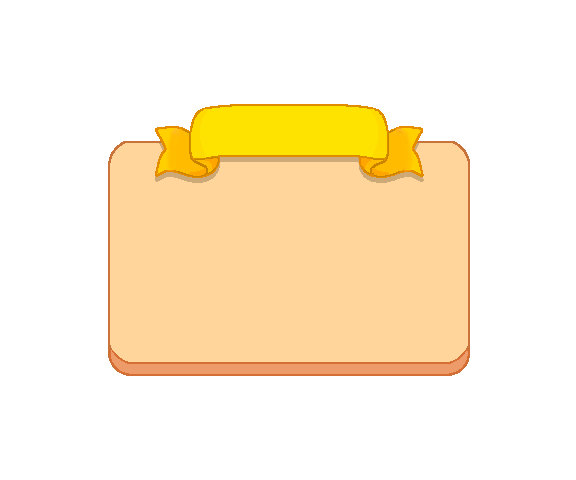
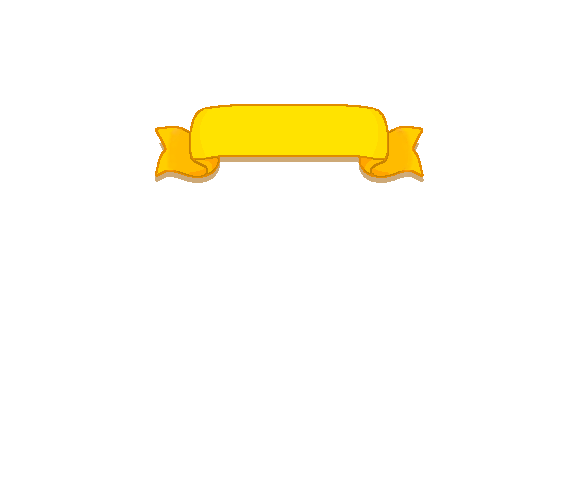
Update FishingFrame, fix some error in sell_Trading

Changed region(s): [[0.1875, 0.2812, 0.8438, 0.7812]]

diff --git a/src/Main/UI.java b/src/Main/UI.java
@@ -861,50 +861,62 @@ public class UI {
     }
 
     public void drawAfterFishingScreen() {
-        drawFishingBackGround();
         drawFishingCaughtAndInformation();
     }
-
-    public void drawFishingBackGround() {
-        g2.drawImage(fishFrame, gp.tileSize, -2 * gp.tileSize, gp.tileSize * 18, gp.tileSize * 15, null);//0xFFBB5B FFAD7A
-    //    drawSubWindow1(-5+gp.tileSize*19/2,-5+gp.tileSize*21/4,10+gp.tileSize*11/2,10+gp.tileSize*5/2,new Color(0,0,0,0),new Color(0xFFFFFF),2,10); ed9b68
-    //    drawSubWindow1(-10+gp.tileSize*9/2,-10+gp.tileSize*5/2,20+gp.tileSize*11,gp.tileSize*15/2,new Color(0xe078ff),new Color(0x9D57A6),5,70);
-    //    drawSubWindow1(-10+gp.tileSize*9/2,-10+gp.tileSize*5/2,20+gp.tileSize*11,gp.tileSize*285/40,new Color(0xffd59b),new Color(0x9D57A6),5,70);
-        drawSubWindow1(gp.tileSize*19/2,gp.tileSize*21/4,gp.tileSize*11/2,gp.tileSize*3,new Color(0xFFBB5B),new Color(0xFFBB5B),0,0);
-    }
-
     public void drawFishingCaughtAndInformation() {
-        //draw image of fish caught
-        g2.drawImage(fishImage, 6 * gp.tileSize, gp.tileSize * 9 / 2, gp.tileSize * 5 / 2, gp.tileSize * 5 / 2, null);
-        drawSubWindow1 (-10 + 6 * gp.tileSize, -10 + gp.tileSize * 9 / 2, 15 + gp.tileSize * 5 / 2, 15 + gp.tileSize * 5 / 2, new Color(0, 0, 0, 0), new Color(0xD69489), 7, 20);
         //display fish information
         //Rarity
         switch (fishRarity) {
             case "LEGENDARY":
+                drawSubWindow1(-10+gp.tileSize*9/2,-10+gp.tileSize*5/2,20+gp.tileSize*11,gp.tileSize*15/2,new Color(0xf8b347),new Color(0xe58b00),5,70);
+                drawSubWindow1(-10+gp.tileSize*9/2,-10+gp.tileSize*5/2,20+gp.tileSize*11,gp.tileSize*285/40,new Color(0xffd99e),new Color(0xe58b00),5,70);
+                g2.drawImage(fishFrame, gp.tileSize, -2 * gp.tileSize, gp.tileSize * 18, gp.tileSize * 15, null);
+                drawSubWindow1(gp.tileSize*19/2,gp.tileSize*21/4,gp.tileSize*11/2,gp.tileSize*3,new Color(0xffcb81),new Color(0xffcb81),0,50);
+
                 setFontAndColor(font, Color.BLACK);
                 g2.drawString(fishRarity, getXforCenteredText(fishRarity), gp.tileSize * 5 / 2);
                 setFontAndColor(font, new Color(0xFF7F3E));
                 g2.drawString(fishRarity, -2 + getXforCenteredText(fishRarity), -2 + gp.tileSize * 5 / 2);
                 break;
             case "RARE":
+                drawSubWindow1(-10+gp.tileSize*9/2,-10+gp.tileSize*5/2,20+gp.tileSize*11,gp.tileSize*15/2,new Color(0xb386ef),new Color(0x965fde),5,70);
+                drawSubWindow1(-10+gp.tileSize*9/2,-10+gp.tileSize*5/2,20+gp.tileSize*11,gp.tileSize*285/40,new Color(0xddc3ff),new Color(0x965fde),5,70);
+                g2.drawImage(fishFrame, gp.tileSize, -2 * gp.tileSize, gp.tileSize * 18, gp.tileSize * 15, null);
+                drawSubWindow1(gp.tileSize*19/2,gp.tileSize*21/4,gp.tileSize*11/2,gp.tileSize*3,new Color(0xcea9ff),new Color(0xcea9ff),0,50);
+
                 setFontAndColor(font, Color.WHITE);
                 g2.drawString(fishRarity, getXforCenteredText(fishRarity), gp.tileSize * 5 / 2);
                 setFontAndColor(font, new Color(0x810081));
                 g2.drawString(fishRarity, -2 + getXforCenteredText(fishRarity), -2 + gp.tileSize * 5 / 2);
                 break;
             case "UNCOMMON":
+                drawSubWindow1(-10+gp.tileSize*9/2,-10+gp.tileSize*5/2,20+gp.tileSize*11,gp.tileSize*15/2,new Color(0x5099f9),new Color(0x447dc8),5,70);
+                drawSubWindow1(-10+gp.tileSize*9/2,-10+gp.tileSize*5/2,20+gp.tileSize*11,gp.tileSize*285/40,new Color(0xaee6ff),new Color(0x447dc8),5,70);
+                g2.drawImage(fishFrame, gp.tileSize, -2 * gp.tileSize, gp.tileSize * 18, gp.tileSize * 15, null);
+                drawSubWindow1(gp.tileSize*19/2,gp.tileSize*21/4,gp.tileSize*11/2,gp.tileSize*3,new Color(0x82d3f8),new Color(0x82d3f8),0,50);
+
                 setFontAndColor(font, new Color(0xFFFFFF));
                 g2.drawString(fishRarity, getXforCenteredText(fishRarity), gp.tileSize * 5 / 2);
                 setFontAndColor(font, new Color(0x0239BD));
                 g2.drawString(fishRarity, -2 + getXforCenteredText(fishRarity), -2 + gp.tileSize * 5 / 2);
                 break;
             case "COMMON":
+                drawSubWindow1(-10+gp.tileSize*9/2,-10+gp.tileSize*5/2,20+gp.tileSize*11,gp.tileSize*15/2,new Color(0x7fba53),new Color(0x5e9c31),5,70);
+                drawSubWindow1(-10+gp.tileSize*9/2,-10+gp.tileSize*5/2,20+gp.tileSize*11,gp.tileSize*285/40,new Color(0xd0fab3),new Color(0x5e9c31),5,70);
+                g2.drawImage(fishFrame, gp.tileSize, -2 * gp.tileSize, gp.tileSize * 18, gp.tileSize * 15, null);
+                drawSubWindow1(gp.tileSize*19/2,gp.tileSize*21/4,gp.tileSize*11/2,gp.tileSize*3,new Color(0xbaf88e),new Color(0xbaf88e),0,50);
+
                 setFontAndColor(font, new Color(0xFFFFFF));
                 g2.drawString(fishRarity, getXforCenteredText(fishRarity), gp.tileSize * 5 / 2);
                 setFontAndColor(font, new Color(0x448713));
                 g2.drawString(fishRarity, -2 + getXforCenteredText(fishRarity), -2 + gp.tileSize * 5 / 2);
                 break;
             case "TRASH":
+                drawSubWindow1(-10+gp.tileSize*9/2,-10+gp.tileSize*5/2,20+gp.tileSize*11,gp.tileSize*15/2,new Color(0xb9b7b7),new Color(0xe7d7d7d),5,70);
+                drawSubWindow1(-10+gp.tileSize*9/2,-10+gp.tileSize*5/2,20+gp.tileSize*11,gp.tileSize*285/40,new Color(0xe8e8e8),new Color(0x7d7d7d),5,70);
+                g2.drawImage(fishFrame, gp.tileSize, -2 * gp.tileSize, gp.tileSize * 18, gp.tileSize * 15, null);
+                drawSubWindow1(gp.tileSize*19/2,gp.tileSize*21/4,gp.tileSize*11/2,gp.tileSize*3,new Color(0xd7d5d5),new Color(0xd7d5d5),0,50);
+
                 setFontAndColor(font, new Color(0xFFFFFF));
                 g2.drawString(fishRarity, getXforCenteredText(fishRarity), gp.tileSize * 5 / 2);
                 setFontAndColor(font, new Color(0x434343));
@@ -924,12 +936,14 @@ public class UI {
         //Description
         y = gp.tileSize * 6;
         x =  gp.tileSize * 10;
-
         setFontAndColor(font4a,new Color(0x7B342E));
         for(String line: desFishing.split("\n")){
             g2.drawString(line, x, y);
             y += 32;
         }
+        //draw image of fish caught
+        g2.drawImage(fishImage, 6 * gp.tileSize, gp.tileSize * 9 / 2, gp.tileSize * 5 / 2, gp.tileSize * 5 / 2, null);
+        drawSubWindow1 ( 6 * gp.tileSize,  gp.tileSize * 9 / 2, gp.tileSize * 5 / 2, gp.tileSize * 5 / 2, new Color(0, 0, 0, 0), new Color(0xD69489), 7, 20);
     }
 
 
@@ -1056,25 +1070,11 @@ public class UI {
 
 
             //Description Text
-            int textX = dFrameX + 20;
-            int textY = dFrameY + gp.tileSize * 3/4;
             g2.setFont(g2.getFont().deriveFont(28F));
-
             int itemIndex = getItemIndexOnSlot(slotCol, slotRow);
-
 
             if(itemIndex < entity.inventory.size()){
                 drawSubWindow(dFrameX,dFrameY,dFrameWidth,dFrameHeight);
-                setFontAndColor(font4,Color.WHITE);
-                g2.drawString(fishName,textX,textY);
-                textY += 30;
-                setFontAndColor(font3a,Color.WHITE);
-                for(String line: entity.inventory.get(itemIndex).desTrading.split("\n")){
-
-                    g2.drawString(line, textX, textY);
-                    textY += 20;
-                }
-                g2.setFont(g2.getFont().deriveFont(28F));
             }
         }
     }
@@ -1174,6 +1174,7 @@ public class UI {
             String text = "" + price;
             x = getXforAlignToRightText(text, gp.tileSize * 8);
             g2.drawString(text, x - 28, y + 45);
+            //Description
 
             //Buy an item
             if (gp.keyHandler.enterPressed) {
@@ -1231,26 +1232,29 @@ public class UI {
             String text = "" + price;
             x = getXforAlignToRightText(text, gp.tileSize * 18);
             g2.drawString(text, x - 28, y + 45);
+            //Description
+            int textX = gp.tileSize*12 + 20;
+            int textY = gp.tileSize*6 + gp.tileSize * 3/4;
+            setFontAndColor(font4,Color.WHITE);
+            g2.drawString(gp.player.inventory.get(itemIndex).name,gp.tileSize*12 + 20,textY);
+            textY += 30;
+            setFontAndColor(font3a,Color.WHITE);
+            for(String line: gp.player.inventory.get(itemIndex).desTrading.split("\n")){
+
+                g2.drawString(line, textX, textY);
+                textY += 20;
+            }
 
             //Sell an item
             if (gp.keyHandler.enterPressed) {
-
-//                if(gp.player.inventory.get(itemIndex) == gp.player.currentWeapon || gp.player.inventory.get(itemIndex) == gp.player.currentShield){
-//                    commandNum = 0;
-//                    subState = 0;
-//                    gp.gameState = gp.dialogueState;
-//                    currentDialogue = "You cannot sell an equipped item!";
-//                }else {
                 if (gp.player.inventory.get(itemIndex).amount > 1) {
                     gp.player.inventory.get(itemIndex).amount--;
                 } else {
                     gp.player.inventory.remove(itemIndex);
                 }
                 gp.player.coin += price;
-//                }
 
             }
-
         }
     }
 

diff --git a/src/entity/Player.java b/src/entity/Player.java
@@ -276,7 +276,7 @@ public class Player extends Entity {
 
         //Check if stackable
         if(item.stackable == true){
-            int index = seachItemInInventory(item.name);
+            int index = searchItemInInventory(item.name);
 
             if(index != 999){
                 inventory.get(index).amount++;
@@ -298,7 +298,7 @@ public class Player extends Entity {
         return canContain;
     }
 
-    public int seachItemInInventory(String itemName){
+    public int searchItemInInventory(String itemName){
         int itemIndex = 999;
 
         for(int i = 0; i < inventory.size(); i++){
@@ -309,25 +309,6 @@ public class Player extends Entity {
         }
         return itemIndex;
     }
-
-//    public void checkAtSpecifiedPst(int i) {
-//        solidArea.x = (int) (worldX + solidArea.x);
-//        solidArea.y = (int) (worldY + solidArea.y);
-//        //get the object's solid area position within the game world
-//        gp.obj[i].solidArea.x = (int) (gp.obj[i].worldX + gp.obj[i].solidArea.x);
-//        gp.obj[i].solidArea.y = (int) (gp.obj[i].worldY + gp.obj[i].solidArea.y);
-//        if (gp.obj[i].name.equals("Door close") && solidArea.intersects(gp.obj[i].solidArea)) {
-//            gp.aSetter.setObject(false);
-//
-//        }
-//        if (gp.obj[i].name.equals("Door open") && !solidArea.intersects(gp.obj[i].solidArea)) {
-//            gp.aSetter.setObject(true);
-//        }
-//        solidArea.x = solidAreaDefaultX;
-//        solidArea.y = solidAreaDefaultY;
-//        gp.obj[i].solidArea.x = gp.obj[i].solidAreaDefaultX;
-//        gp.obj[i].solidArea.y = gp.obj[i].solidAreaDefaultY;
-//    }
 
     public void draw(Graphics2D g) {
 //        g.setColor(Color.white);

diff --git a/src/Main/InventoryManagement.java b/src/Main/InventoryManagement.java
@@ -81,8 +81,8 @@ public class InventoryManagement {
                 setDisplay(num);
                 break;
             case 2:
-                   value = rd.nextInt(1000) + 1;
-                   // value = 202;
+                      value = rd.nextInt(1000) + 1;
+                   // value = 175;
                 if (value >= 1 && value <= 16) {
                     gp.iManage.inventory[0].caught = true;
                     gp.iManage.inventory[0].count++;
@@ -143,7 +143,6 @@ public class InventoryManagement {
 
                 }
                 setDisplay(num);
-                gp.player.canObtainItem(gp.iManage.inventory[num]);
                 gp.gameState = gp.fishingState;
 
                 break;

diff --git a/src/object/OBJ_Grass.java b/src/object/OBJ_Grass.java
@@ -6,12 +6,10 @@ import Main.GamePanel;
 public class OBJ_Grass extends Entity{
         public OBJ_Grass(GamePanel gp){
             super(gp);
-            caught = true;
             name = "Grass";
             price = 2;
             count = 0;
             down1 = setup("Item/Grass",gp.tileSize,gp.tileSize);
-            fishRarity = "";
         }
 
 

diff --git a/src/entity/NPC_OldMan.java b/src/entity/NPC_OldMan.java
@@ -45,6 +45,7 @@ public class NPC_OldMan extends Entity {
     }
 
     public void setItem(){
+
         inventory.add(new OBJ_Grass(gp));
     }
 
